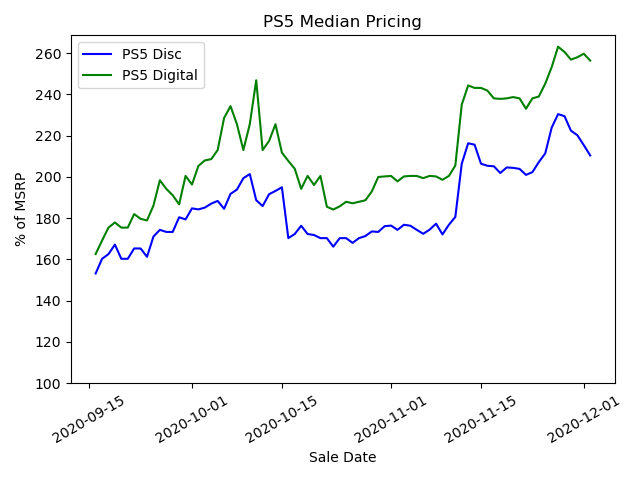
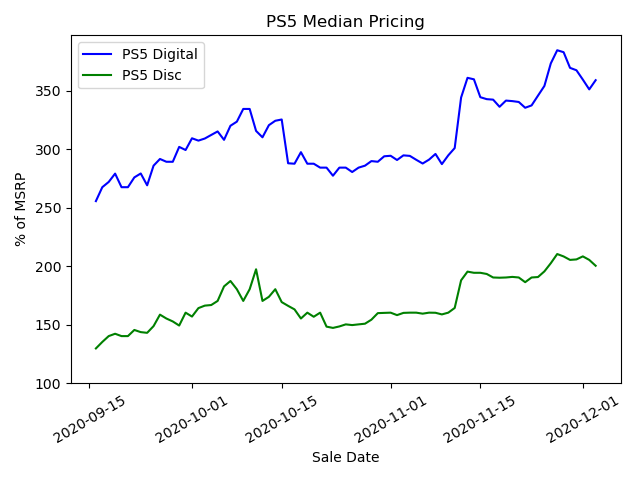
Fixed PS5 Digital/Disc labeling

diff --git a/main.py b/main.py
@@ -328,12 +328,12 @@ median_plotting([df_3060, df_3070, df_3080, df_3090], ['3060', '3070', '3080', '
 # PS5 Analysis (All time)
 df_ps5_digital = ebay_search('PS5 Digital', 399, 300, 11000, min_date=datetime.datetime(2020, 9, 16))
 df_ps5_disc = ebay_search('PS5 -digital', 499, 450, 11000, min_date=datetime.datetime(2020, 9, 16))
-median_plotting([df_ps5_disc, df_ps5_digital], ['PS5 Disc', 'PS5 Digital'], 'PS5 Median Pricing', [299, 499])
+median_plotting([df_ps5_disc, df_ps5_digital], ['PS5 Digital', 'PS5 Disc'], 'PS5 Median Pricing', [299, 499])
 
 # PS5 Analysis (Post Launch)
 df_ps5_digital_ld = ebay_search('PS5 Digital', 399, 300, 11000, min_date=datetime.datetime(2020, 11, 12))
 df_ps5_disc_ld = ebay_search('PS5 -digital', 499, 450, 11000, min_date=datetime.datetime(2020, 11, 12))
-median_plotting([df_ps5_disc_ld, df_ps5_digital_ld], ['PS5 Disc', 'PS5 Digital'], 'PS5 Median Pricing (Post Launch)',
+median_plotting([df_ps5_disc_ld, df_ps5_digital_ld], ['PS5 Digital', 'PS5 Disc'], 'PS5 Median Pricing (Post Launch)',
                 [299, 499])
 
 # Xbox Analysis (All time)
@@ -349,3 +349,6 @@ median_plotting([df_xbox_s_ld, df_xbox_x_ld], ['Xbox Series S', 'Xbox Series X']
                 [299, 499])
 
 # TODO: Non-Linear Trendline and breakeven
+# TODO: Cache sale dated to make fewer calls
+# TODO: Open links and pull seller data and quantity sold
+# TODO: Size dots at given price point, round to nearest dollar
